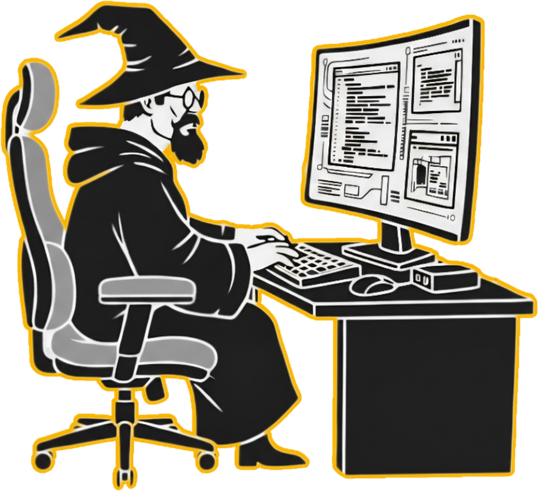
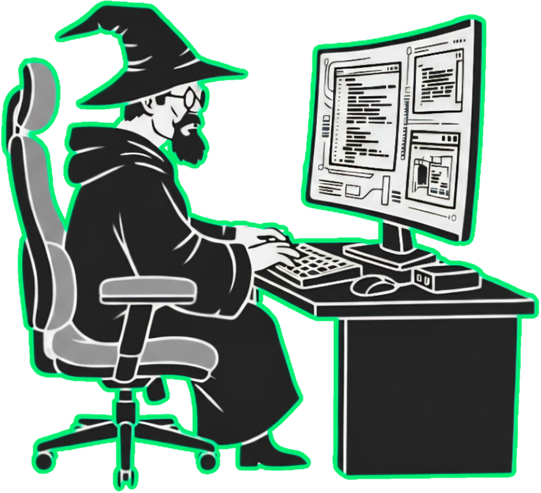
0.0.10 - Thinking green

diff --git a/src/styles.css b/src/styles.css
@@ -1,7 +1,7 @@
 :root {
   /* Button colors */
-  --buttonColor: #f8b400;
-  --buttonHover: #f8b400;
+  --buttonColor: #2DD46F;
+  --buttonHover: #2DD46F;
 
   /* Text */
   --textColor: #f5f5f5;
@@ -9,22 +9,22 @@
   --appLink: #f5f5f5;
 
   /* Box shadows */
-  --boxShadow: #f8b400;
+  --boxShadow: #2DD46F;
 
   /* Borders */
   --progressBarBackground: rgb(243, 239, 239);
-  --borderColor: #f8b400;
+  --borderColor: #2DD46F;
 
   /* Hovers */
   --headerHoverBG: #8c43ce;
   --contactDetailHoverTS: #b5b5b5;
-  --socialMediaHoverBG: #f8b400;
+  --socialMediaHoverBG: #2DD46F;
 
   /* Backgrounds */
   /*--background: #1c1c20;*/
   --background: #252423;
-  --backgroundSecondaryColor: #f8b400;
-  --appHeaderBG: #f8b400;
+  --backgroundSecondaryColor: #2DD46F;
+  --appHeaderBG: #2DD46F;
   --appHeaderTextColor: #1c1c20;
 
   /* Social media icons */
@@ -85,6 +85,6 @@ body {
 }
 
 ::-webkit-scrollbar-thumb {
-  background: #fbc901;
+  background: #2DD46F;
   border-radius: 100vw;
 }